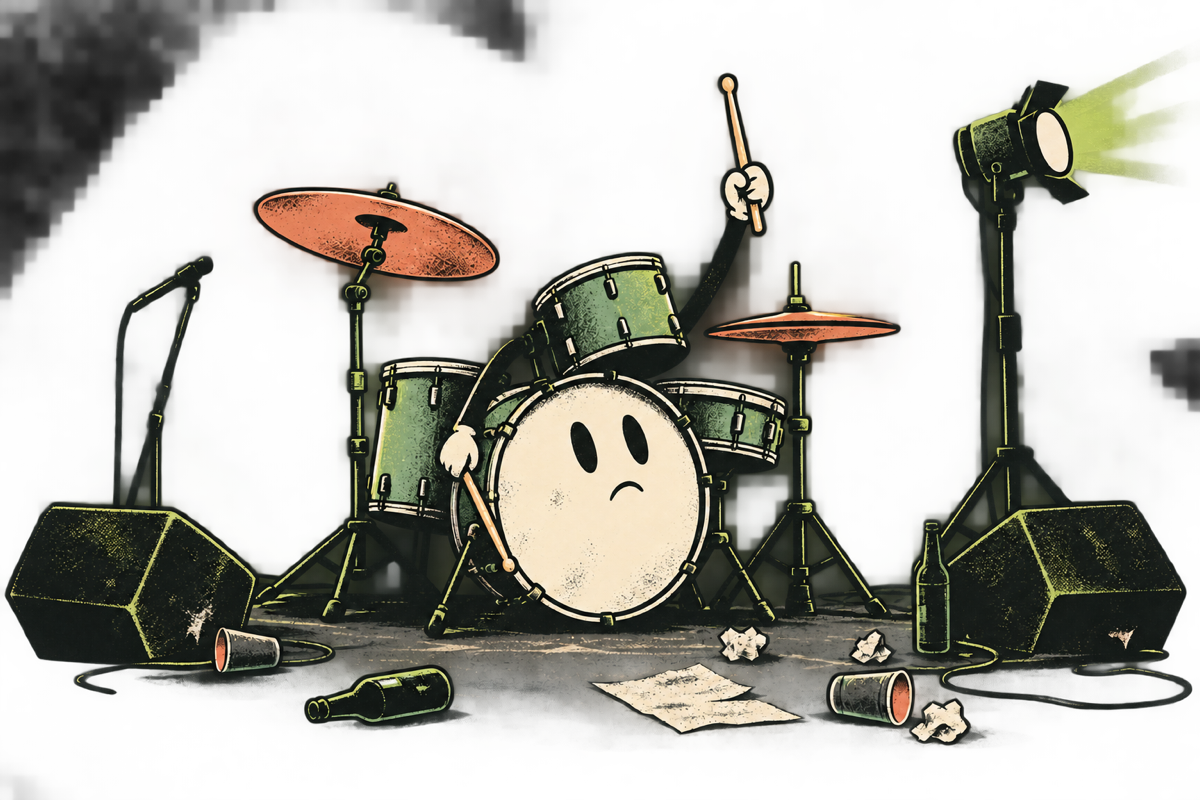
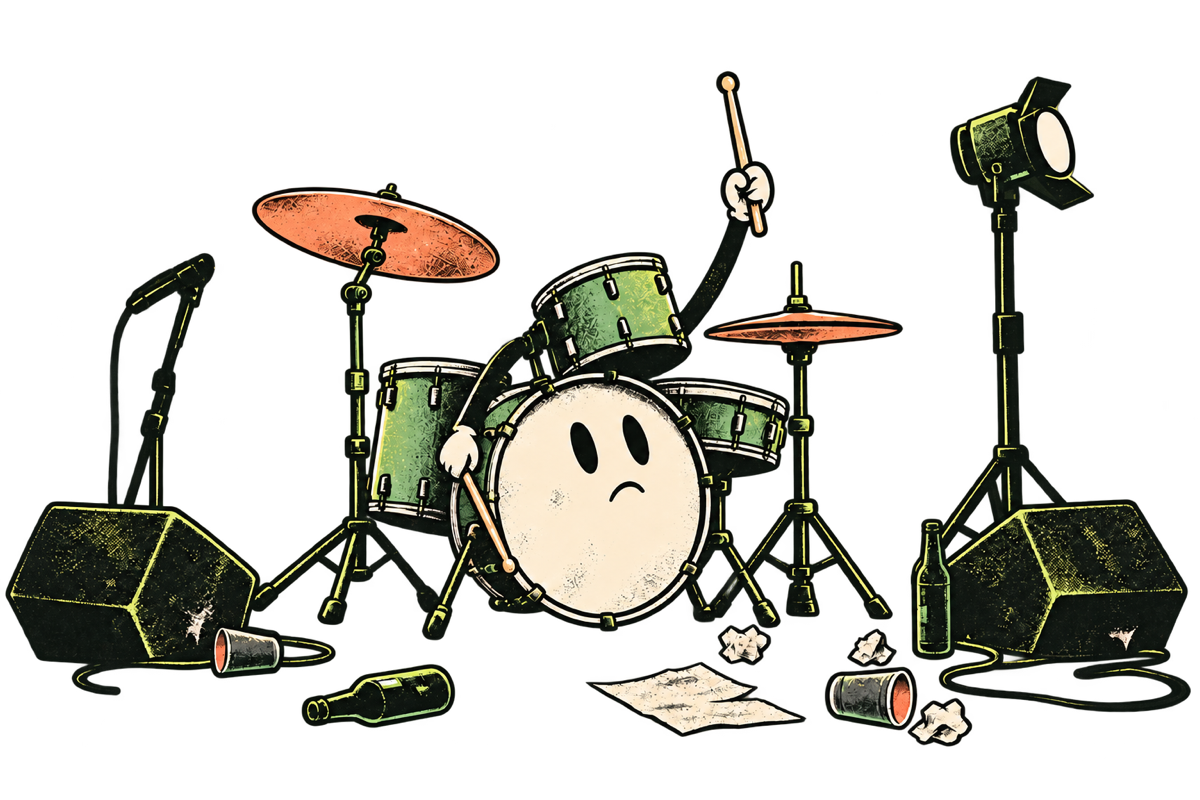
Clean up 404 mascot artwork

diff --git a/src/worker.js b/src/worker.js
@@ -178,11 +178,11 @@ async function privateAssetPage(request, env, path) {
 }
 
 const notFoundVariants = [
-  { eyebrow: "404 · Sem sinal", heading: "A banda saiu do palco.", body: "Este evento já não está na agenda. O cabo ficou, mas o concerto não.", cta: "Voltar ao alinhamento", image: "/brand/404/amplificador.png", alt: "Amplificador mascote com o cabo desligado", en: { eyebrow:"404 · No signal", heading:"The band has left the stage.", body:"This event is no longer listed. The cable stayed; the concert did not.", cta:"Back to the setlist", alt:"Amplifier mascot with an unplugged cable" } },
-  { eyebrow: "404 · Fora da faixa", heading: "Perdemos o beat.", body: "Este evento saltou da playlist. Vamos pôr outra coisa a tocar.", cta: "Voltar à agenda", image: "/brand/404/vinil.png", alt: "Disco de vinil mascote à procura do beat", en: { eyebrow:"404 · Off track", heading:"We lost the beat.", body:"This event skipped the playlist. Let’s put something else on.", cta:"Back to the listings", alt:"Vinyl record mascot looking for the beat" } },
-  { eyebrow: "404 · Desvio na estrada", heading: "O evento foi de tournée.", body: "Virou na saída errada e já não mora aqui.", cta: "Traçar nova rota", image: "/brand/404/carrinha.png", alt: "Carrinha de tournée mascote num desvio", en: { eyebrow:"404 · Tour detour", heading:"The event went on tour.", body:"It took the wrong exit and no longer lives here.", cta:"Plot a new route", alt:"Tour van mascot taking a detour" } },
-  { eyebrow: "404 · Depois do encore", heading: "Silêncio no alinhamento.", body: "O palco ficou vazio. A agenda, felizmente, não.", cta: "Ver quem toca a seguir", image: "/brand/404/bateria.png", alt: "Bateria mascote num palco vazio", en: { eyebrow:"404 · After the encore", heading:"Silence on the setlist.", body:"The stage is empty. Fortunately, the listings are not.", cta:"See who plays next", alt:"Drum kit mascot on an empty stage" } },
-  { eyebrow: "404 · Corda partida", heading: "Este riff ficou por tocar.", body: "A corda partiu e o evento saiu do alinhamento. Há mais música logo a seguir.", cta: "Afinar nova procura", image: "/brand/404/guitarra.png", alt: "Guitarra mascote com uma corda partida", en: { eyebrow:"404 · Broken string", heading:"This riff went unplayed.", body:"The string snapped and the event dropped off the setlist. More music is just ahead.", cta:"Tune a new search", alt:"Guitar mascot with a broken string" } }
+  { eyebrow: "404", heading: "A banda saiu do palco.", body: "Este evento já não está na agenda. O cabo ficou, mas o concerto não.", cta: "Voltar ao alinhamento", image: "/brand/404/amplificador.png?v=2", alt: "Amplificador mascote com o cabo desligado", en: { eyebrow:"404", heading:"The band has left the stage.", body:"This event is no longer listed. The cable stayed; the concert did not.", cta:"Back to the setlist", alt:"Amplifier mascot with an unplugged cable" } },
+  { eyebrow: "404", heading: "Perdemos o beat.", body: "Este evento saltou da playlist. Vamos pôr outra coisa a tocar.", cta: "Voltar à agenda", image: "/brand/404/vinil.png?v=2", alt: "Disco de vinil mascote à procura do beat", en: { eyebrow:"404", heading:"We lost the beat.", body:"This event skipped the playlist. Let’s put something else on.", cta:"Back to the listings", alt:"Vinyl record mascot looking for the beat" } },
+  { eyebrow: "404", heading: "O evento foi de tournée.", body: "Virou na saída errada e já não mora aqui.", cta: "Traçar nova rota", image: "/brand/404/carrinha.png?v=2", alt: "Carrinha de tournée mascote num desvio", en: { eyebrow:"404", heading:"The event went on tour.", body:"It took the wrong exit and no longer lives here.", cta:"Plot a new route", alt:"Tour van mascot taking a detour" } },
+  { eyebrow: "404", heading: "Silêncio no alinhamento.", body: "O palco ficou vazio. A agenda, felizmente, não.", cta: "Ver quem toca a seguir", image: "/brand/404/bateria.png?v=2", alt: "Bateria mascote num palco vazio", en: { eyebrow:"404", heading:"Silence on the setlist.", body:"The stage is empty. Fortunately, the listings are not.", cta:"See who plays next", alt:"Drum kit mascot on an empty stage" } },
+  { eyebrow: "404", heading: "Este riff ficou por tocar.", body: "A corda partiu e o evento saiu do alinhamento. Há mais música logo a seguir.", cta: "Afinar nova procura", image: "/brand/404/guitarra.png?v=2", alt: "Guitarra mascote com uma corda partida", en: { eyebrow:"404", heading:"This riff went unplayed.", body:"The string snapped and the event dropped off the setlist. More music is just ahead.", cta:"Tune a new search", alt:"Guitar mascot with a broken string" } }
 ];
 
 async function notFoundPage(request, env) {
